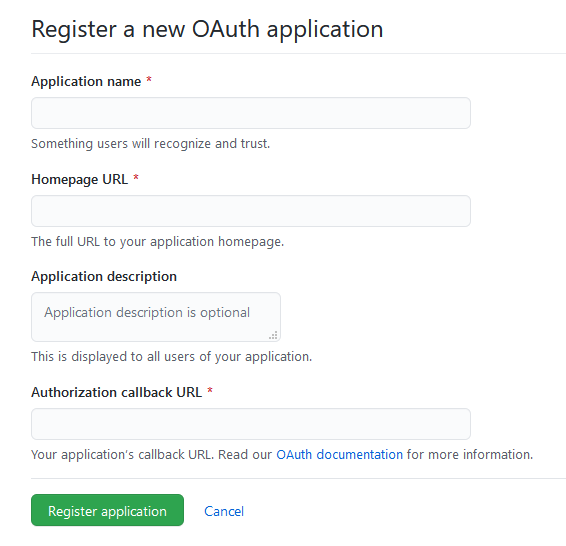
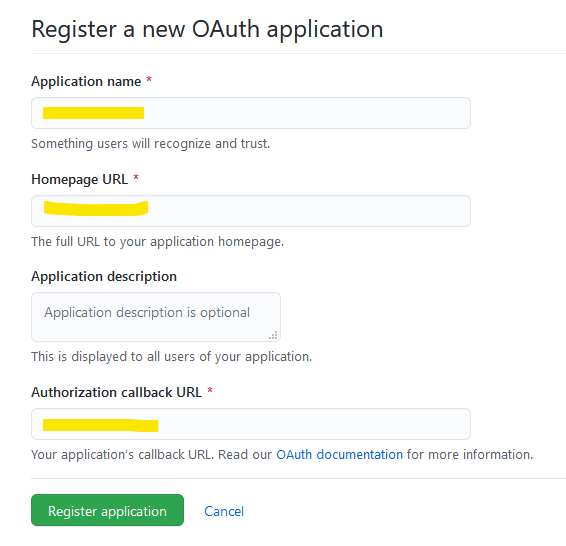
Updated readme

Changed region(s): [[0.0601, 0.7473, 0.3004, 0.8095], [0.0601, 0.3425, 0.2703, 0.4048], [0.0601, 0.1868, 0.2703, 0.2179]]

diff --git a/api/OAuth.cs b/api/OAuth.cs
@@ -43,7 +43,7 @@ namespace How2Code.info
             [HttpTrigger(AuthorizationLevel.Anonymous, "get", "post", Route = null)] HttpRequest req,
             ILogger log)
         {
-            var code = req.Query["_code"].ToString();
+            var code = req.Query["_code"].ToString(); // The parameter is renamed from "code" to "_code" by proxies.json to avoid problems with the special meaning of "code" in Azure Functions
             var state = req.Query["state"].ToString();
             if (state != State)
             {

diff --git a/README.md b/README.md
@@ -58,17 +58,17 @@ Note that the Admin-button at the bottom will not work until you have configured
 
 ## 7. (Optional) Configure Netlify CMS
 
-To make Netlify CMS work, you need to do these things:
+Netlify CMS depends on a backend API for authentication. This is handled by */api/OAuth.cs*, but it requires some configuration. If you wish to use Netlify CMS, you need to do these things:
 
-* Update the settings in *app/static/admin/config.yml*
-* Create a GitHub application
-* Configure your Azure Static Web App with the OAuth settings
+1. Update the settings in *app/static/admin/config.yml*
+2. Create a GitHub application
+3. Configure your Azure Static Web App with the OAuth settings
 
-#### app/static/admin/config.yml
+### app/static/admin/config.yml
 
 You will need to adjust the settings under *backend* and point them to your repository and domain.
 
-#### Create a GitHub application
+### Create a GitHub application
 
 Go to your GitHub [Developer settings](https://github.com/settings/developers). Click on New OAuth App.
 
@@ -80,7 +80,7 @@ Go to your GitHub [Developer settings](https://github.com/settings/developers). 
 
 After registering your app, click *Generate a new client secret*. Save a copy of your *Client ID* and *Client Secret* for use in the next step.
 
-#### Configure your Azure Static Web App with the OAuth settings
+### Configure your Azure Static Web App with the OAuth settings
 
 In the Azure Portal, you need to add these Application Settings to your Static Web App:
 
@@ -90,6 +90,6 @@ In the Azure Portal, you need to add these Application Settings to your Static W
 * *OAuthRedirectUri* should be like https://www.yourwebsite.com/api/callback (same as you entered in GitHub)
 * *OAuthState* should be just a long random string
 
-## Structure
+Now try visiting https://www.yourwebsite.com/admin/ to open Netlify CMS.
 
 ## Enjoy!!

diff --git a/app/content/post/welcome.md b/app/content/post/welcome.md
@@ -26,13 +26,15 @@ Static websites ([Jamstack sites](https://www.jamstack.org)) have many benefits,
 
 You will find the latest instructions on how to setup and configure your static website [here](https://github.com/jahlen/hugo-azure-static-webapp-quickstart).
 
+Your website comes with the Hugo Clarity theme. Here are [instructions](https://github.com/chipzoller/hugo-clarity) for the theme.
+
 #### How to edit your website
 
 You can edit the files under *app/content*. Instead of editing them manually, you can use Netlify CMS. There is an Admin-button in the page footer that will take you to Netlify CMS.
 
 #### How to setup Netlify CMS
 
-You need to update *app/static/admin/config.yml* and setup OAuth authentication. Check the instructions [here](https://github.com/jahlen/hugo-azure-static-webapp-quickstart).
+You need to update *app/static/admin/config.yml* and setup OAuth authentication. Check the instructions [here](https://github.com/jahlen/hugo-azure-static-webapp-quickstart#7-optional-configure-netlify-cms).
 
 #### Links not working?
 Check the baseurl setting in your *app/config/_default/config.toml* file.
@@ -43,3 +45,5 @@ Change it in the *app/config/_default/languages.toml* file.
 #### How to change author?
 Change it in the *app/config/_default/params.toml* file.
 
+#### Change Hugo Theme?
+Browse for [themes](https://themes.gohugo.io/) and follow their setup instructions.
